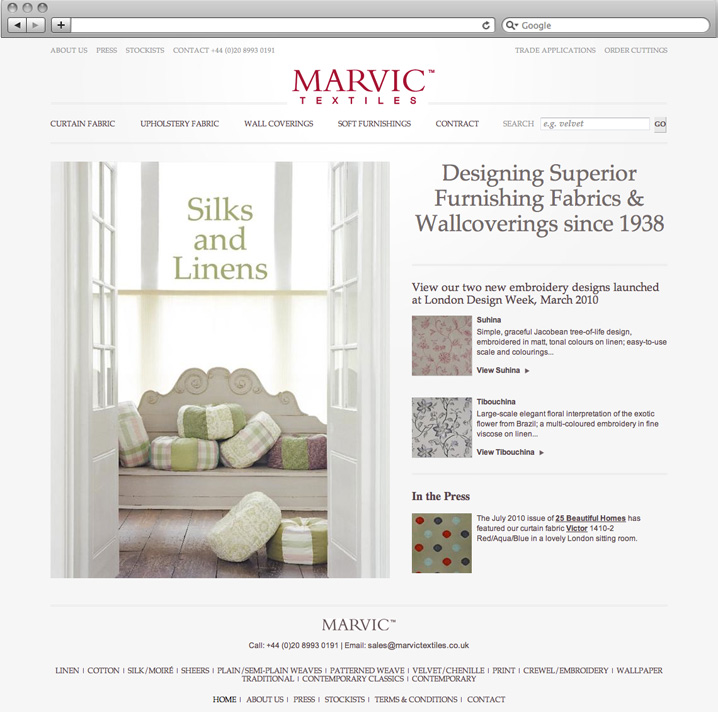
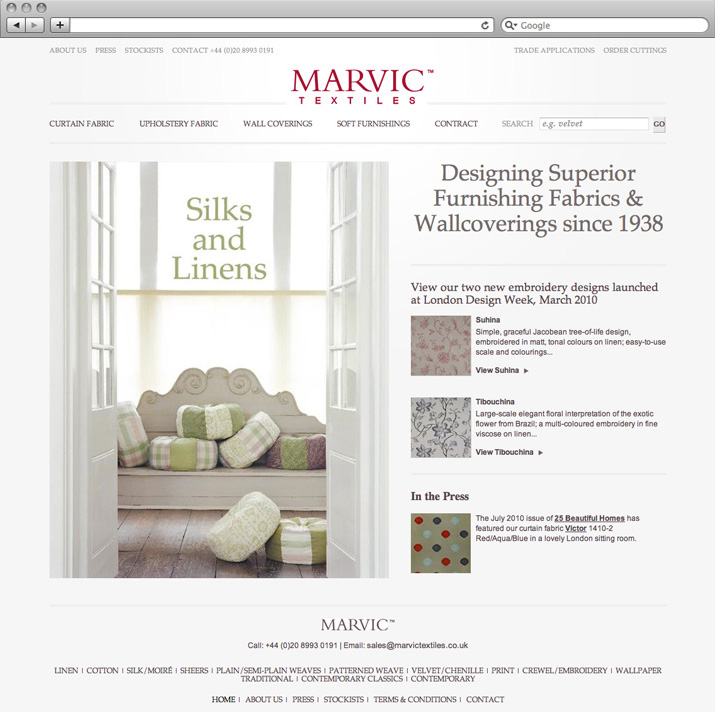
styling standfirsts. Adding backgrounds to portfolio links.

diff --git a/source/stylesheets/all.css b/source/stylesheets/all.css
@@ -4,6 +4,7 @@ html, body{
 }
 body {
   font-family: 'Lato', sans-serif; 
+  font-weight: 400; 
   margin: 0;
   padding: 0;
 }
@@ -24,15 +25,23 @@ h1, h2 {
   line-height: 1.4em;
   color: #161313;
 }
-.about h1{
-  border-top: 3px solid #fefb00;
+h1{
+  display:block;
+  font-weight: normal;
+  font-size: 42px;
+  margin:42px 0 0 0;
 }
 .about h2{
   background: url(/images/heading-tree.jpg) no-repeat left bottom;
   padding-left: 40px;
   padding-top: 30px;
 }
-
+.standfirst{
+  font-size: 20px;
+  color: #554a4a;
+  margin-bottom: 18px;
+  font-weight: 300; 
+}
 nav ul{
   list-style: none;
   margin: 0;
@@ -102,40 +111,36 @@ blockquote cite{
 
 
 /* Home page specific */
-.index #content h1{
-  font-size: 24px;
-}
-.index #content h1 strong{
-  display:block;
-  font-weight: normal;
-  font-size: 36px;
-  margin-bottom: 6px;
-}
 .index #content ol{
   list-style: none;
   margin: 0 -9px;
   padding: 0;
 }
 .index ol li{
-  width: 300px;
+  width: 280px;
   float: left;
   height: auto;
-  padding: 0 9px;
+  margin: 12px 18px;
+  /*background: #f76900 url(/images/bg-label.jpg) no-repeat bottom left;*/
+  background: url(/images/arrow.png) 95% 92% no-repeat, #f76900 url(/images/bg-label.jpg) no-repeat bottom left;
+}
+.index ol li:nth-of-type(odd) {
+  background: url(/images/arrow.png) 95% 92% no-repeat, #f76900 url(/images/bg-label2.jpg) no-repeat bottom left;
 }
 .index ol img{
   display:block;
+  margin-bottom: 3px;
 }
 .index ol a{
   display: block;
   text-decoration: none;
-  padding: 12px 0;
+  padding-bottom: 6px;
 }
 .index ol h2, .index ol p{
   margin: 0;
-  padding: 3px 6px;
+  padding: 2px 8px;
   font-family: 'Lato', sans-serif; 
   font-size: 16px;
-  background: #f76900;
   color: #fff;
   text-transform: uppercase;
 }
@@ -164,16 +169,26 @@ footer p{
 body{
   text-align: center;
 }
-#content{
+#container{
   width: 960px;
   margin: 0 auto;
-  text-align: left;
+  text-align: left;  
+}
+#content{
   position: relative;
-  border: 1px solid #333;
 }
 #content img{
   width: auto;
   height: auto;
+}
+.about #content h1{
+  margin-left: 180px;
+}
+.about #content h2, .about #content .standfirst{
+  margin: 20px 180px;
+}
+.about #content p{
+  margin: 0 260px;
 }
 .portfolio h1, .portfolio p{
   width: 230px;
